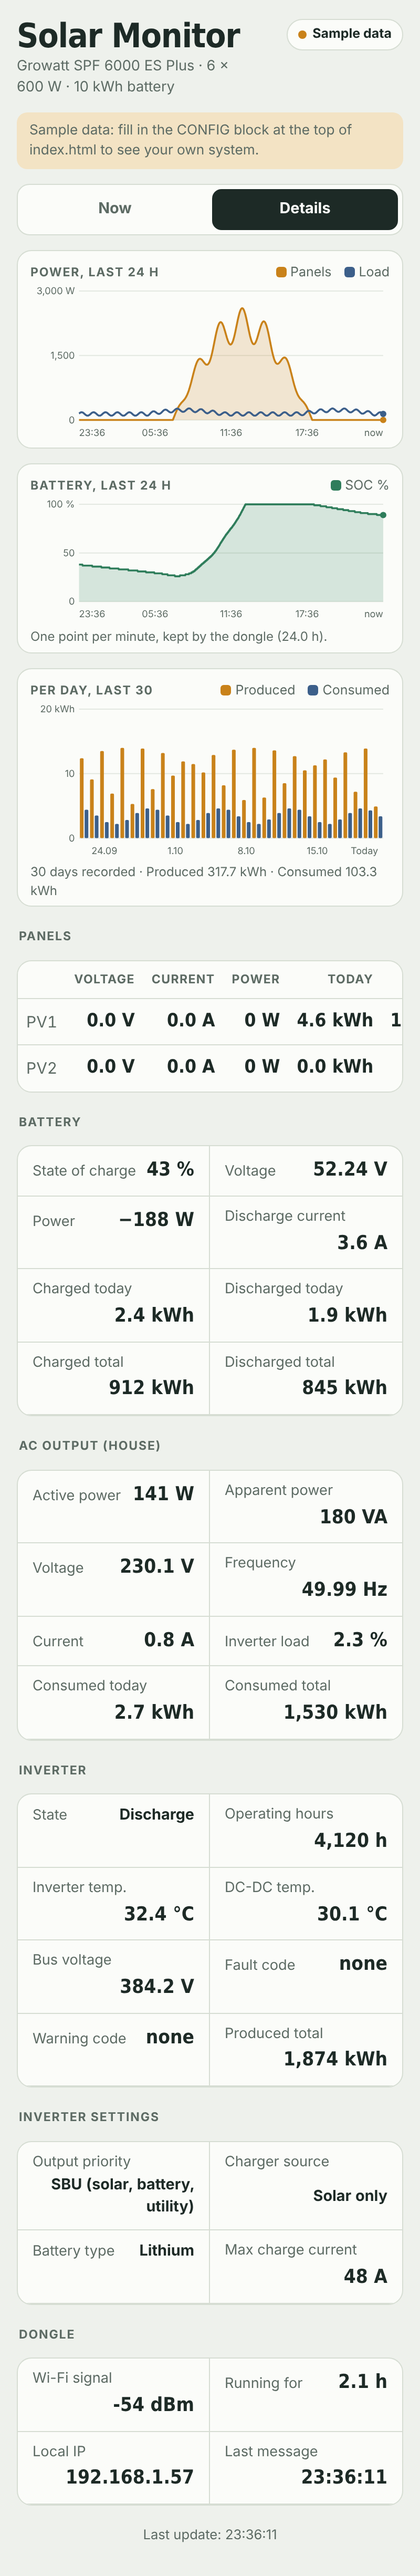
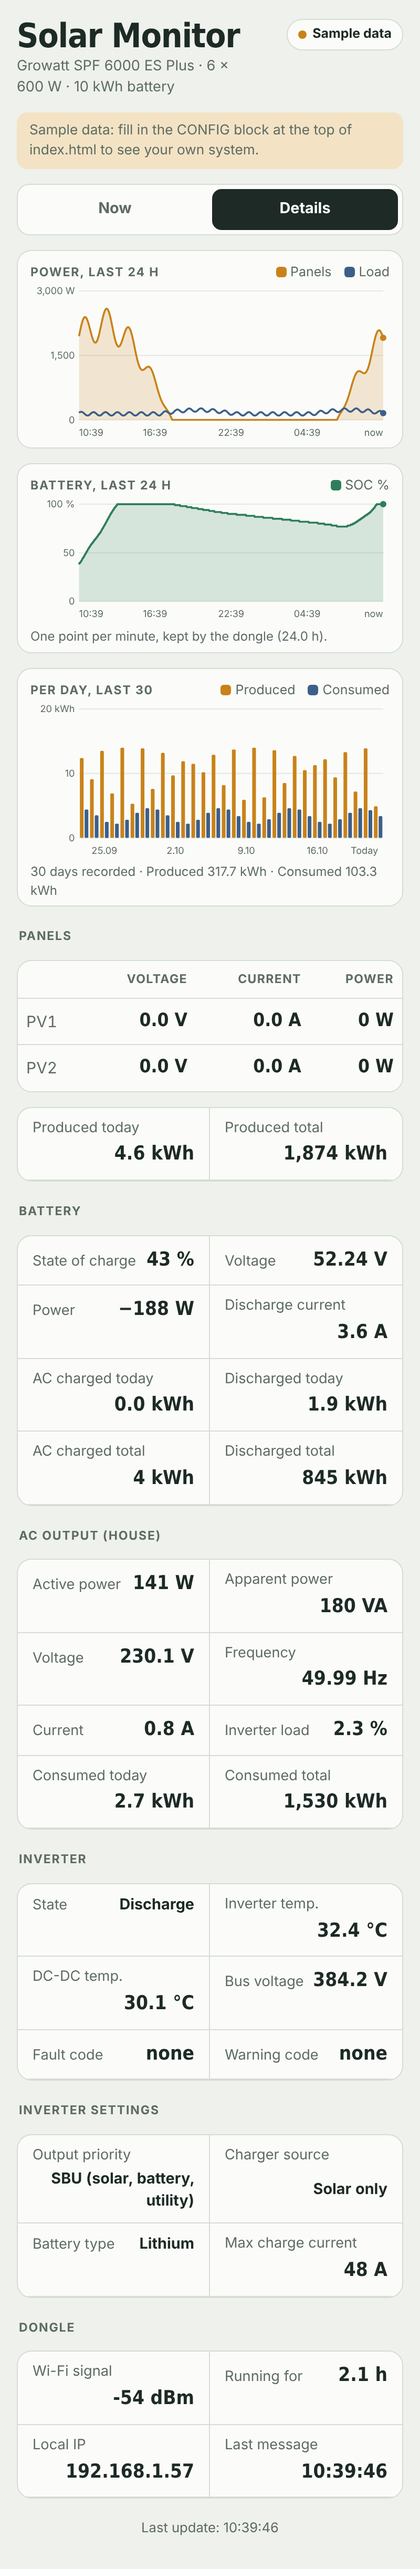
Fix sensors after daytime check on SPF 6000 ES Plus
Registers 48/50 hold total PV energy for all inputs; 52/54 (PV2 energy)
and 30 (operating time) always read 0, so they are no longer read.
Registers 56/58 count only charging from AC and are renamed accordingly.
Web page and register reference updated to match.

diff --git a/web/index.html b/web/index.html
@@ -182,12 +182,16 @@ footer{color:var(--muted);font-size:.8rem;text-align:center;margin-top:6px}
 
     <h2 data-t="panels"></h2>
     <div class="table"><table>
-      <thead><tr><th></th><th data-t="voltage"></th><th data-t="current"></th><th data-t="power"></th><th data-t="today"></th><th data-t="total"></th></tr></thead>
+      <thead><tr><th></th><th data-t="voltage"></th><th data-t="current"></th><th data-t="power"></th></tr></thead>
       <tbody>
-        <tr><td>PV1</td><td><b id="d-pv1v">–</b></td><td><b id="d-pv1a">–</b></td><td><b id="d-pv1w">–</b></td><td><b id="d-pv1e">–</b></td><td><b id="d-pv1t">–</b></td></tr>
-        <tr><td>PV2</td><td><b id="d-pv2v">–</b></td><td><b id="d-pv2a">–</b></td><td><b id="d-pv2w">–</b></td><td><b id="d-pv2e">–</b></td><td><b id="d-pv2t">–</b></td></tr>
+        <tr><td>PV1</td><td><b id="d-pv1v">–</b></td><td><b id="d-pv1a">–</b></td><td><b id="d-pv1w">–</b></td></tr>
+        <tr><td>PV2</td><td><b id="d-pv2v">–</b></td><td><b id="d-pv2a">–</b></td><td><b id="d-pv2w">–</b></td></tr>
       </tbody>
     </table></div>
+    <div class="grid">
+      <div class="kv"><span data-t="producedToday"></span><b id="d-pvE">–</b></div>
+      <div class="kv"><span data-t="producedTotal"></span><b id="d-pvT">–</b></div>
+    </div>
 
     <h2 data-t="battery"></h2>
     <div class="grid">
@@ -216,13 +220,11 @@ footer{color:var(--muted);font-size:.8rem;text-align:center;margin-top:6px}
     <h2 data-t="inverter"></h2>
     <div class="grid">
       <div class="kv"><span data-t="state"></span><b class="txt" id="d-st">–</b></div>
-      <div class="kv"><span data-t="hours"></span><b id="d-hrs">–</b></div>
       <div class="kv"><span data-t="tInverter"></span><b id="d-ti">–</b></div>
       <div class="kv"><span data-t="tDcdc"></span><b id="d-td">–</b></div>
       <div class="kv"><span data-t="busVoltage"></span><b id="d-bus">–</b></div>
       <div class="kv"><span data-t="faultCode"></span><b id="d-fc">–</b></div>
       <div class="kv"><span data-t="warningCode"></span><b id="d-wc">–</b></div>
-      <div class="kv"><span data-t="producedTotal"></span><b id="d-pvT">–</b></div>
     </div>
 
     <h2 data-t="settings"></h2>
@@ -270,7 +272,7 @@ const TXT = {
     inverter:"Inverter", today:"Today", produced:"Produced", consumed:"Consumed", summary:"At a glance", battVoltage:"Battery voltage",
     temperature:"Temperature", acOutput:"AC output", wifi:"Wi-Fi signal", chPower:"Power, last 24 h", chSoc:"Battery, last 24 h",
     chDays:"Per day, last 30", voltage:"Voltage", current:"Current", power:"Power", total:"Total", soc:"State of charge",
-    dischargeCurrent:"Discharge current", chargedToday:"Charged today", dischargedToday:"Discharged today", chargedTotal:"Charged total",
+    dischargeCurrent:"Discharge current", chargedToday:"AC charged today", producedToday:"Produced today", dischargedToday:"Discharged today", chargedTotal:"AC charged total",
     dischargedTotal:"Discharged total", acOutputTitle:"AC output (house)", activePower:"Active power", apparentPower:"Apparent power",
     frequency:"Frequency", loadPercent:"Inverter load", loadToday:"Consumed today", loadTotal:"Consumed total", state:"State",
     hours:"Operating hours", tInverter:"Inverter temp.", tDcdc:"DC-DC temp.", busVoltage:"Bus voltage", faultCode:"Fault code",
@@ -288,7 +290,7 @@ const TXT = {
     inverter:"Invertor", today:"Azi", produced:"Produs", consumed:"Consumat", summary:"Pe scurt", battVoltage:"Tensiune baterie",
     temperature:"Temperatură", acOutput:"Ieșire AC", wifi:"Semnal Wi-Fi", chPower:"Putere, ultimele 24 h", chSoc:"Baterie, ultimele 24 h",
     chDays:"Pe zile, ultimele 30", voltage:"Tensiune", current:"Curent", power:"Putere", total:"Total", soc:"Stare de încărcare",
-    dischargeCurrent:"Curent descărcare", chargedToday:"Încărcat azi", dischargedToday:"Descărcat azi", chargedTotal:"Încărcat total",
+    dischargeCurrent:"Curent descărcare", chargedToday:"Încărcat din AC azi", producedToday:"Produs azi", dischargedToday:"Descărcat azi", chargedTotal:"Încărcat din AC total",
     dischargedTotal:"Descărcat total", acOutputTitle:"Ieșire AC (casa)", activePower:"Putere activă", apparentPower:"Putere aparentă",
     frequency:"Frecvență", loadPercent:"Încărcare invertor", loadToday:"Consum azi", loadTotal:"Consum total", state:"Stare",
     hours:"Ore funcționare", tInverter:"Temp. invertor", tDcdc:"Temp. DC-DC", busVoltage:"Tensiune bus", faultCode:"Cod eroare",
@@ -468,8 +470,8 @@ function render() {
   set("status", status || "–");
   $("status").className = "chip" + ((fault && fault > 0) || S["status"] === "Fault" ? " fault" : "");
 
-  const e1 = get("pv1energytoday"), e2 = get("pv2energytoday");
-  set("eToday", e1 === null ? "–" : fmt((e1 || 0) + (e2 || 0), 1) + " kWh");
+  const eT = get("pvenergytoday");
+  set("eToday", u(eT, 1, "kWh"));
   set("lToday", u(get("loadenergytoday"), 1, "kWh"));
   set("bv", u(get("batteryvoltage"), 1, "V"));
   set("temp", u(get("invertertemperature"), 1, "°C"));
@@ -478,24 +480,22 @@ function render() {
   set("wifi", u(get("wifisignal"), 0, "dBm"));
 
   set("d-pv1v", u(get("pv1voltage"), 1, "V")); set("d-pv1a", u(get("pv1current"), 1, "A")); set("d-pv1w", u(get("pv1power"), 0, "W"));
-  set("d-pv1e", u(e1, 1, "kWh")); set("d-pv1t", u(get("pv1energytotal"), 0, "kWh"));
+
   set("d-pv2v", u(get("pv2voltage"), 1, "V")); set("d-pv2a", u(get("pv2current"), 1, "A")); set("d-pv2w", u(get("pv2power"), 0, "W"));
-  set("d-pv2e", u(e2, 1, "kWh")); set("d-pv2t", u(get("pv2energytotal"), 0, "kWh"));
+  set("d-pvE", u(eT, 1, "kWh")); set("d-pvT", u(get("pvenergytotal"), 0, "kWh"));
   set("d-soc", u(soc, 0, "%")); set("d-bv", u(get("batteryvoltage"), 2, "V"));
   set("d-bp", bp === null ? "–" : (bp > 15 ? "−" : bp < -15 ? "+" : "") + fmt(Math.abs(bp)) + " W");
   set("d-bda", u(get("batterydischargecurrent"), 1, "A"));
-  set("d-cht", u(get("batterychargetoday"), 1, "kWh")); set("d-dct", u(get("batterydischargetoday"), 1, "kWh"));
-  set("d-chT", u(get("batterychargetotal"), 0, "kWh")); set("d-dcT", u(get("batterydischargetotal"), 0, "kWh"));
+  set("d-cht", u(get("acchargetoday"), 1, "kWh")); set("d-dct", u(get("batterydischargetoday"), 1, "kWh"));
+  set("d-chT", u(get("acchargetotal"), 0, "kWh")); set("d-dcT", u(get("batterydischargetotal"), 0, "kWh"));
   set("d-lw", u(load, 0, "W")); set("d-lva", u(get("outputapparentpower"), 0, "VA"));
   set("d-ov", u(ov, 1, "V")); set("d-of", u(of, 2, "Hz")); set("d-oa", u(get("outputcurrent"), 1, "A"));
   set("d-lp", u(get("loadpercent"), 1, "%")); set("d-le", u(get("loadenergytoday"), 1, "kWh")); set("d-lT", u(get("loadenergytotal"), 0, "kWh"));
-  set("d-st", status || "–"); set("d-hrs", u(get("operationhours"), 0, "h"));
+  set("d-st", status || "–");
   set("d-ti", u(get("invertertemperature"), 1, "°C")); set("d-td", u(get("dcdctemperature"), 1, "°C"));
   set("d-bus", u(get("busvoltage"), 1, "V"));
   set("d-fc", fault === null ? "–" : fault === 0 ? L.none : fmt(fault));
   const wc = get("warningcode"); set("d-wc", wc === null ? "–" : wc === 0 ? L.none : fmt(wc));
-  const t1 = get("pv1energytotal"), t2 = get("pv2energytotal");
-  set("d-pvT", t1 === null ? "–" : fmt((t1 || 0) + (t2 || 0), 0) + " kWh");
   set("d-op", tr(L.op, S["outputpriority"]) || "–");
   set("d-cp", tr(L.cp, S["chargerpriority"]) || "–");
   set("d-bt", S["batterytype"] || "–");
@@ -524,9 +524,9 @@ function loadDemo() {
   Object.assign(S, {batterysoc: 43, pvpowertotal: 0, pv1power: 0, pv2power: 0, pv1voltage: 0, pv2voltage: 0, pv1current: 0, pv2current: 0,
     loadpower: 141, batterypower: 188, batteryvoltage: 52.24, loadpercent: 2.3, outputvoltage: 230.1, outputfrequency: 49.99,
     outputcurrent: 0.8, outputapparentpower: 180, invertertemperature: 32.4, dcdctemperature: 30.1, busvoltage: 384.2, faultcode: 0,
-    warningcode: 0, pv1energytoday: 4.6, pv2energytoday: 0, pv1energytotal: 1874, pv2energytotal: 0, loadenergytoday: 2.7,
-    loadenergytotal: 1530, batterychargetoday: 2.4, batterydischargetoday: 1.9, batterychargetotal: 912, batterydischargetotal: 845,
-    batterydischargecurrent: 3.6, operationhours: 4120, wifisignal: -54, uptime: 7380, status: "Discharge", ipaddress: "192.168.1.57",
+    warningcode: 0, pvenergytoday: 4.6, pvenergytotal: 1874, loadenergytoday: 2.7,
+    loadenergytotal: 1530, acchargetoday: 0, batterydischargetoday: 1.9, acchargetotal: 4.1, batterydischargetotal: 845,
+    batterydischargecurrent: 3.6, wifisignal: -54, uptime: 7380, status: "Discharge", ipaddress: "192.168.1.57",
     outputpriority: "SBU", chargerpriority: "Solar only", batterytype: "Lithium", maxchargecurrent: 48});
   const now = Date.now(); hist = [];
   for (let m = 24 * 60; m >= 0; m--) {

diff --git a/docs/registers.md b/docs/registers.md
@@ -1,6 +1,8 @@
 # Reference: Modbus registers and MQTT topics
 
-Growatt SPF off-grid protocol, as read by `growatt-dongle.yaml`. Values verified on an SPF 6000 ES Plus against an independent monitor (load, temperature, battery voltage, SOC, output voltage, battery power).
+Growatt SPF off-grid protocol, as read by `growatt-dongle.yaml`. Values verified on an SPF 6000 ES Plus against an independent monitor (load, temperature, battery voltage, SOC, output voltage, battery power, PV voltage and power, settings).
+
+On the SPF 6000 ES Plus, registers 52/54 (PV2 energy) stay at 0 even when PV2 produces, and register 30 (operating time) reads 0, so the firmware does not read them. Registers 56/58 count only charging from AC; solar charging is not included.
 
 ## Link
 
@@ -26,12 +28,10 @@ Growatt SPF off-grid protocol, as read by `growatt-dongle.yaml`. Values verified
 | 22 / 23 | Output voltage / frequency | U16 | 0.1 V / 0.01 Hz |
 | 25 / 26 | Inverter / DC-DC temperature | U16 | 0.1 °C |
 | 27 | Inverter load | U16 | 0.1 % |
-| 30 | Operating time | U32 | 0.5 s (÷ 7200 = hours) |
 | 34 | Output current | U16 | 0.1 A |
 | 42 / 43 | Fault / warning code | U16 | bit field |
-| 48 / 52 | PV1 / PV2 energy today | U32 | 0.1 kWh |
-| 50 / 54 | PV1 / PV2 energy total | U32 | 0.1 kWh |
-| 56 / 58 | Battery charge today / total | U32 | 0.1 kWh |
+| 48 / 50 | PV energy today / total (all PV inputs together) | U32 | 0.1 kWh |
+| 56 / 58 | Battery charged from AC (grid/generator) today / total | U32 | 0.1 kWh |
 | 60 / 62 | Battery discharge today / total | U32 | 0.1 kWh |
 | 73 | Battery discharge current | U16 | 0.1 A |
 | 77 | Battery power (+ discharging, − charging) | S32 | 0.1 W |
